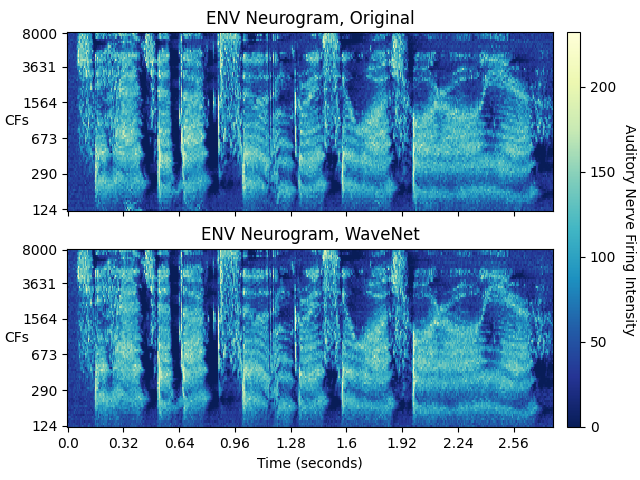
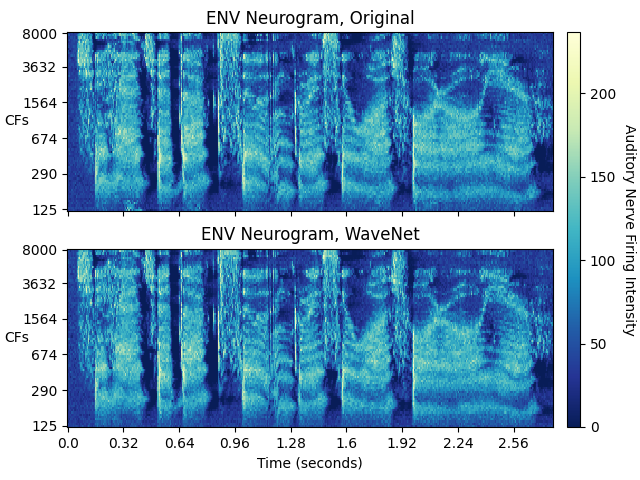
round CFs in neurogram plots

diff --git a/plot_neurograms.py b/plot_neurograms.py
@@ -6,7 +6,7 @@ from matplotlib.axes import Axes
 from math import log10
 
 
-CF = np.logspace(log10(125), log10(8000), 80, base=10.0).astype(int)
+CF = np.round(np.logspace(log10(125), log10(8000), 80, base=10.0)).astype(int)
 
 
 def get_time(sample_index, tfs):
